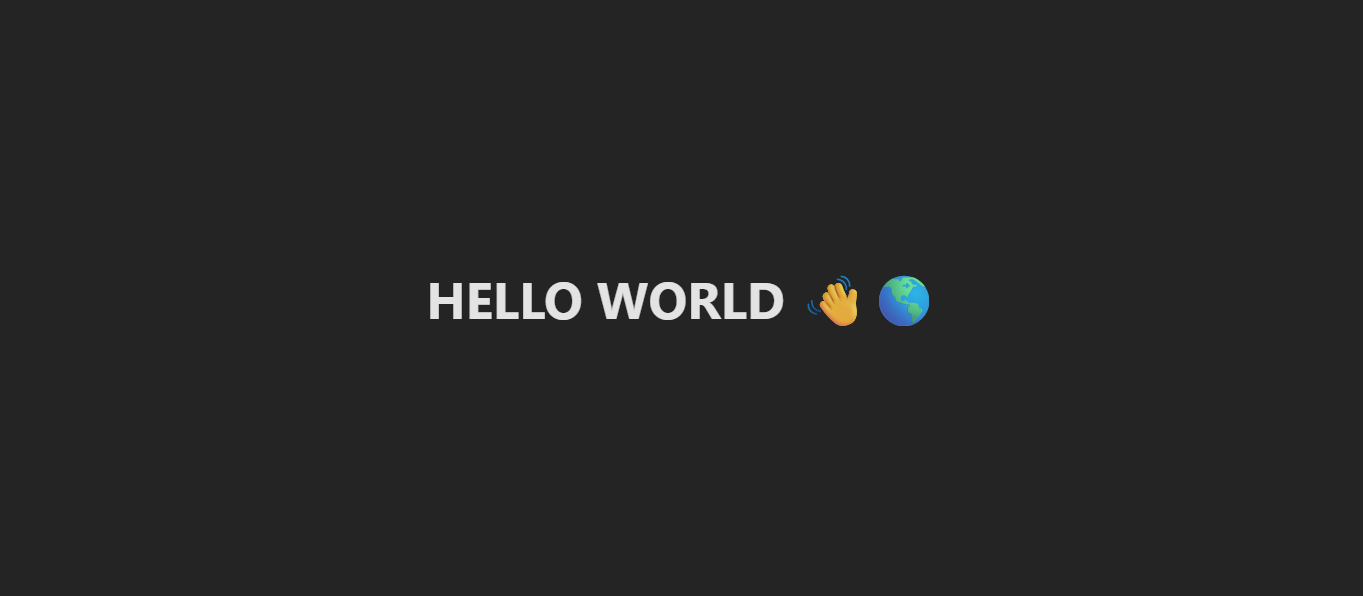
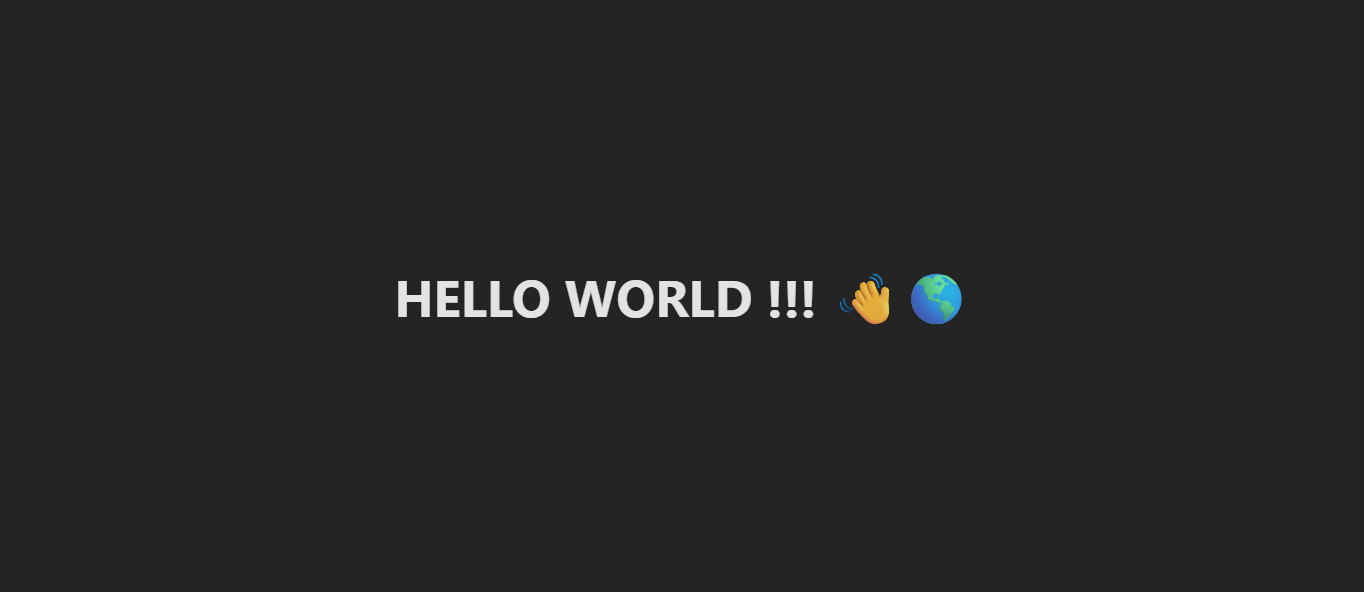
Hello World👋🌎

Changed region(s): [[0.2773, 0.4561, 0.7087, 0.5473]]

diff --git a/src/App.jsx b/src/App.jsx
@@ -8,7 +8,7 @@ function App() {
 
   return (
     <>
-     <h1>HELLO WORLD 👋🌎</h1>
+     <h1>HELLO WORLD !!! 👋🌎</h1>
     </>
   )
 }

diff --git a/README.md b/README.md
@@ -11,3 +11,8 @@ Por hoje, começo pelo "Hello Word", e o amanhã, só pertence a Deus 🙏
 ## Tela Principal
 
 ![alt text](image.png)
+
+## Link do Site 
+https://hello-word-ruby.vercel.app/
+
+link do projeto gerado pelo site Vercel: https://vercel.com
